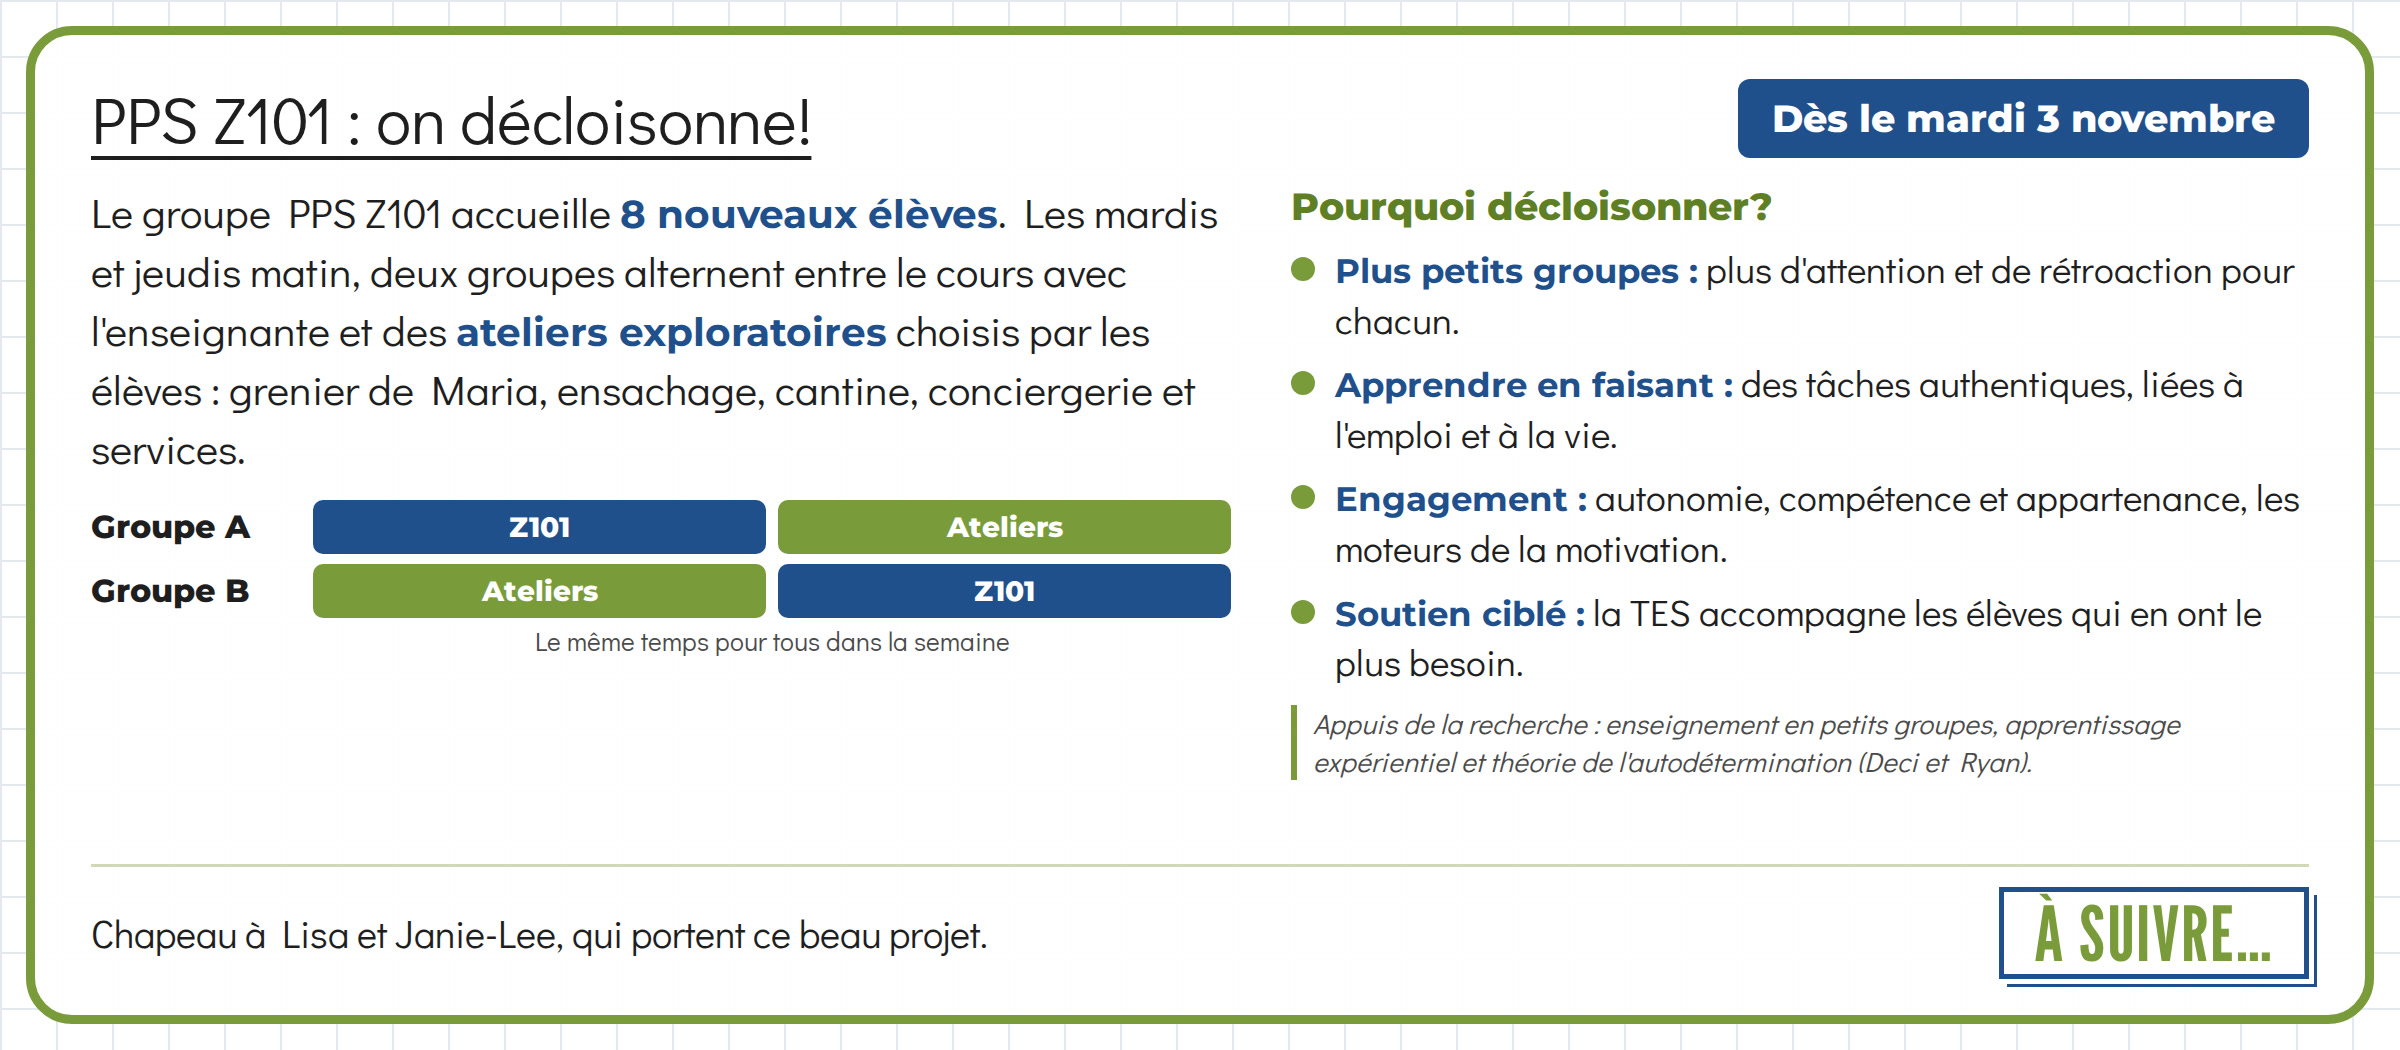
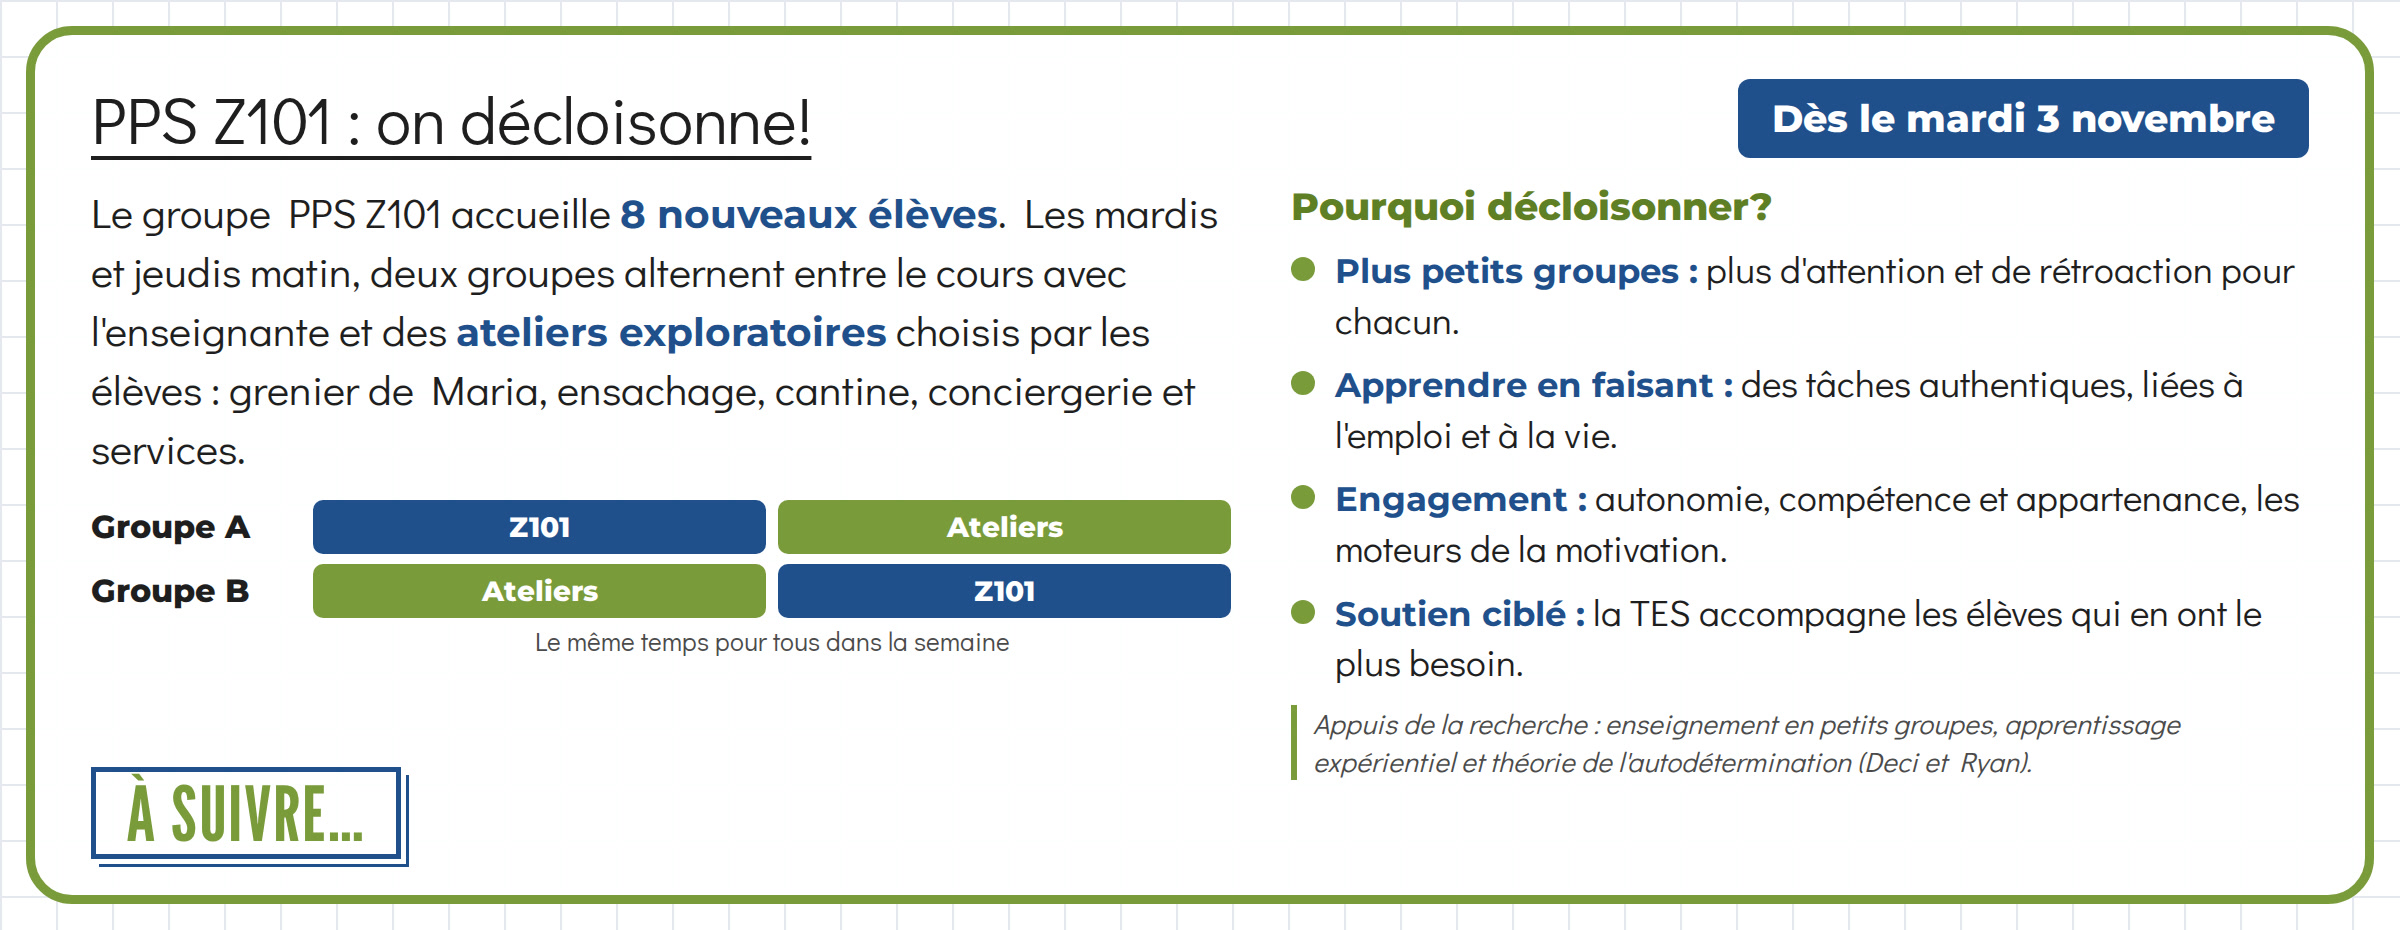
Retire le « Chapeau à » de l'encart de l'infolettre et le resserre
Claude-Session: https://claude.ai/code/session_01GMdriyBYj6aFRdtmm4tFaT

Changed region(s): [[0.0, 0.0, 1.0, 0.9978]]

diff --git a/documents/z101/infolettre/encart.html b/documents/z101/infolettre/encart.html
@@ -12,9 +12,9 @@
 :root{ --bleu:#20508C; --vert:#7A9B3A; --vertf:#5F7F25; --encre:#1E1E1E; --gris:#4A4A4A; --quad:#E4E9F0; }
 *{box-sizing:border-box;margin:0;padding:0}
 body{background:#fff}
-#v{width:2400px;height:1050px;padding:26px;font-family:'Didact Gothic',Arial,sans-serif;color:var(--encre);
+#v{width:2400px;height:930px;padding:26px;font-family:'Didact Gothic',Arial,sans-serif;color:var(--encre);
   background:#fff;background-image:linear-gradient(var(--quad) 2px,transparent 2px),linear-gradient(90deg,var(--quad) 2px,transparent 2px);background-size:56px 56px}
-.cadre{height:100%;border:9px solid var(--vert);border-radius:46px;background:rgba(255,255,255,.93);padding:40px 56px 36px;display:grid;grid-template-columns:1.12fr 1fr;grid-template-rows:auto 1fr auto;column-gap:60px;row-gap:22px}
+.cadre{height:100%;border:9px solid var(--vert);border-radius:46px;background:rgba(255,255,255,.93);padding:40px 56px 36px;display:grid;grid-template-columns:1.12fr 1fr;grid-template-rows:auto 1fr;column-gap:60px;row-gap:22px}
 .titre{grid-column:1/-1;display:flex;align-items:center;justify-content:space-between;gap:30px}
 .titre h2{font-size:66px;font-weight:400;text-decoration:underline;text-decoration-thickness:4px;text-underline-offset:12px;color:var(--encre);letter-spacing:-.005em}
 .date{background:var(--bleu);color:#fff;font-family:'Montserrat',Arial,sans-serif;font-weight:800;font-size:38px;padding:16px 34px;border-radius:12px;white-space:nowrap}
@@ -32,9 +32,9 @@ body{background:#fff}
 .droite li{font-size:37px;line-height:1.34;padding-left:44px;position:relative}
 .droite li::before{content:"";position:absolute;left:0;top:13px;width:24px;height:24px;border-radius:50%;background:var(--vert)}
 .source{font-size:28px;color:var(--gris);font-style:italic;border-left:6px solid var(--vert);padding-left:16px;margin-top:4px;line-height:1.35}
-.bas{grid-column:1/-1;display:flex;align-items:center;justify-content:space-between;gap:30px;border-top:3px solid #CFD9B8;padding-top:20px}
+.bas{grid-column:1/-1;display:flex;align-items:center;justify-content:flex-end;gap:30px;border-top:3px solid #CFD9B8;padding-top:20px}
 .bas p{font-size:38px}
-.suivre{border:5px solid var(--bleu);padding:2px 30px 0;box-shadow:6px 6px 0 -1px #fff,8px 8px 0 0 var(--bleu)}
+.suivre{align-self:flex-start;margin-top:auto;border:5px solid var(--bleu);padding:2px 30px 0;box-shadow:6px 6px 0 -1px #fff,8px 8px 0 0 var(--bleu)}
 .suivre span{font-family:'League Gothic',Impact,sans-serif;font-size:76px;color:var(--vert);letter-spacing:.02em;line-height:1.05}
 </style>
 </head>
@@ -49,6 +49,7 @@ body{background:#fff}
       <div class="g">Groupe B</div><span class="a">Ateliers</span><span class="z">Z101</span>
       <div></div><div class="fl">Le même temps pour tous dans la semaine</div>
     </div>
+    <div class="suivre"><span>À SUIVRE…</span></div>
   </div>
 
   <div class="droite">
@@ -60,11 +61,6 @@ body{background:#fff}
       <li><b>Soutien ciblé :</b> la TES accompagne les élèves qui en ont le plus besoin.</li>
     </ul>
     <p class="source">Appuis de la recherche : enseignement en petits groupes, apprentissage expérientiel et théorie de l'autodétermination (Deci et Ryan).</p>
-  </div>
-
-  <div class="bas">
-    <p>Chapeau à Lisa et Janie-Lee, qui portent ce beau projet.</p>
-    <div class="suivre"><span>À SUIVRE…</span></div>
   </div>
 </div></div>
 </body>

diff --git a/documents/z101/infolettre/rendu.js b/documents/z101/infolettre/rendu.js
@@ -3,7 +3,7 @@ const { chromium } = require('/opt/node-tools/node_modules/playwright');
 const path = require('path');
 (async () => {
   const b = await chromium.launch();
-  const p = await b.newPage({ viewport: { width: 2400, height: 1050 } });
+  const p = await b.newPage({ viewport: { width: 2400, height: 930 } });
   await p.goto('file://' + path.resolve(__dirname, 'encart.html'));
   await p.evaluate(async () => { await Promise.all(['40px "Didact Gothic"', '800 40px Montserrat', '40px "League Gothic"'].map(f => document.fonts.load(f))); await document.fonts.ready; });
   const trop = await p.$eval('.cadre', c => [...c.querySelectorAll('*')].some(e => e.scrollWidth > e.clientWidth + 2 || e.getBoundingClientRect().bottom > c.getBoundingClientRect().bottom - 30));
